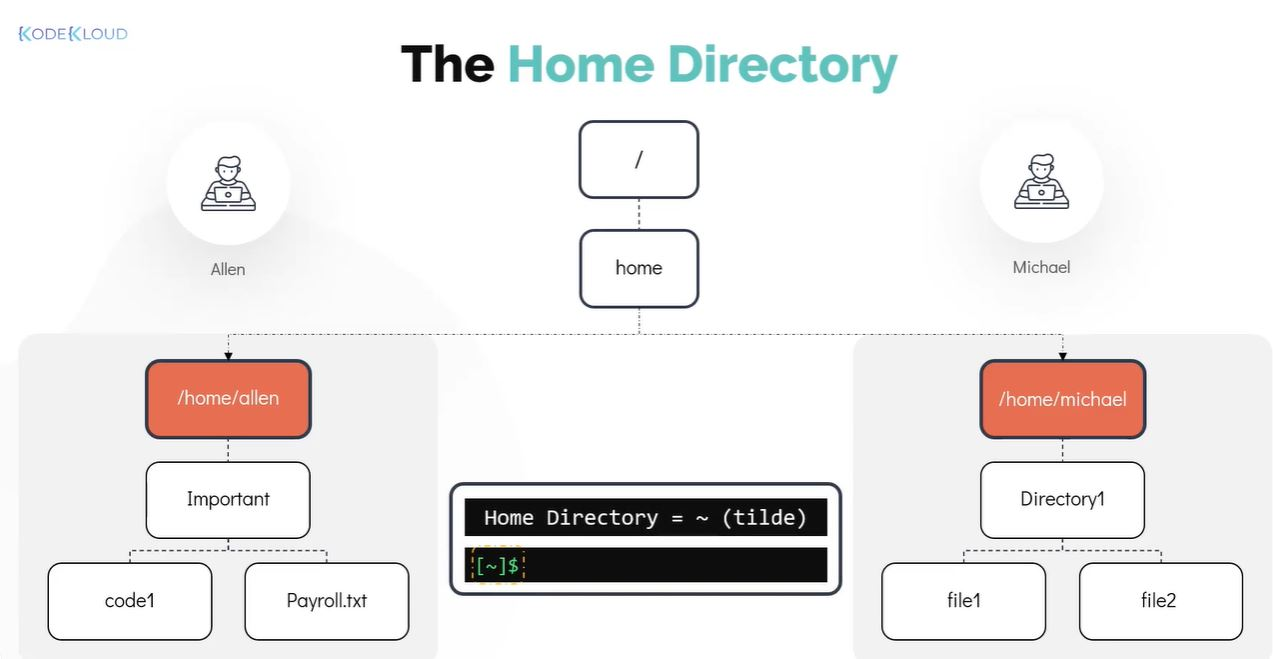
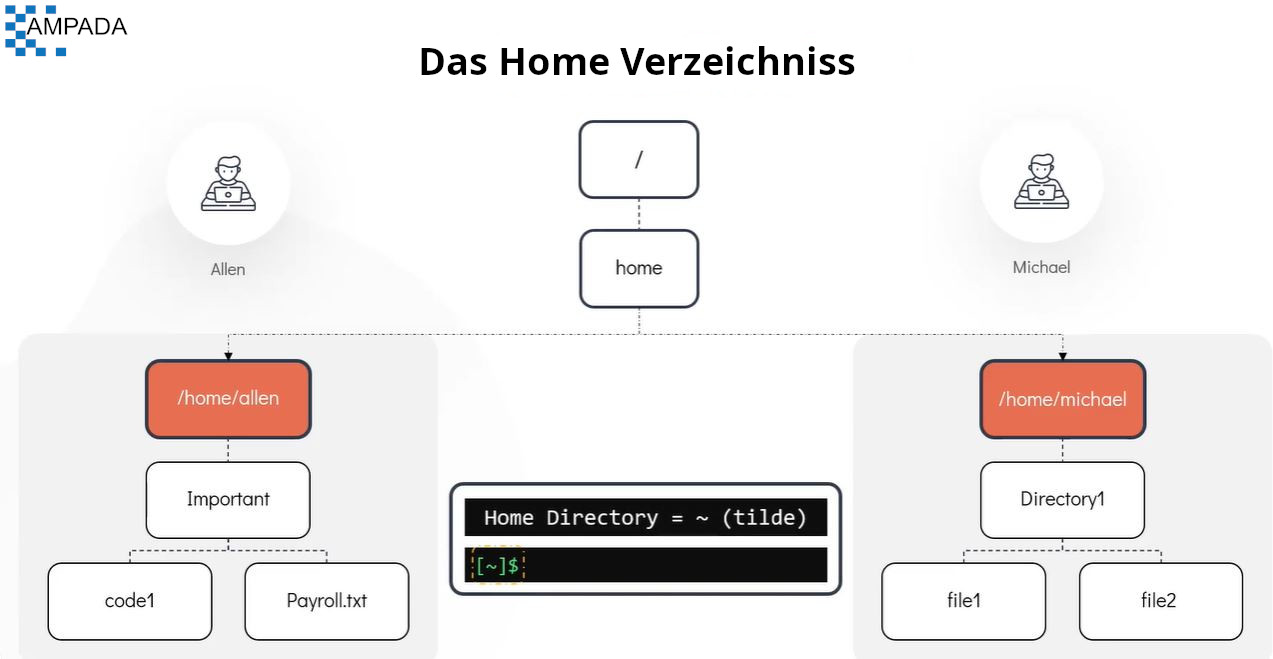
update home directoey image and html tag

Changed region(s): [[0.3064, 0.0607, 0.7046, 0.1517], [0.0, 0.0, 0.1225, 0.091]]

diff --git a/docs/01-Arbeiten-mit-der-Shell-Teil-1/01-Einführung-in-die-Shell.md b/docs/01-Arbeiten-mit-der-Shell-Teil-1/01-Einführung-in-die-Shell.md
@@ -15,7 +15,7 @@
 
 #### The Home Directory
 
-![Das Home Verzeichniss](../../images/The_Home_Directory.JPG)
+<img src="https://github.com/m4st3r-bl4ckb1rd/linux-foundation/blob/master/images/The_Home_Directory.JPG">
 
 - Ein Benutzer-**`michael`**-Home-Verzeichnis, erstellt unter **`/home/michael`**, wobei **`/home`** ein vom System erstelltes Home-Verzeichnis ist, das die Home-Verzeichnisse für fast alle Benutzer des Linux-Systems enthält.
 - Der Name des Heimatverzeichnisses ist standardmäßig identisch mit dem Namen des Benutzers, daher ist das Homeverzeichnis von **`michael`** **`/home/michael`**.
